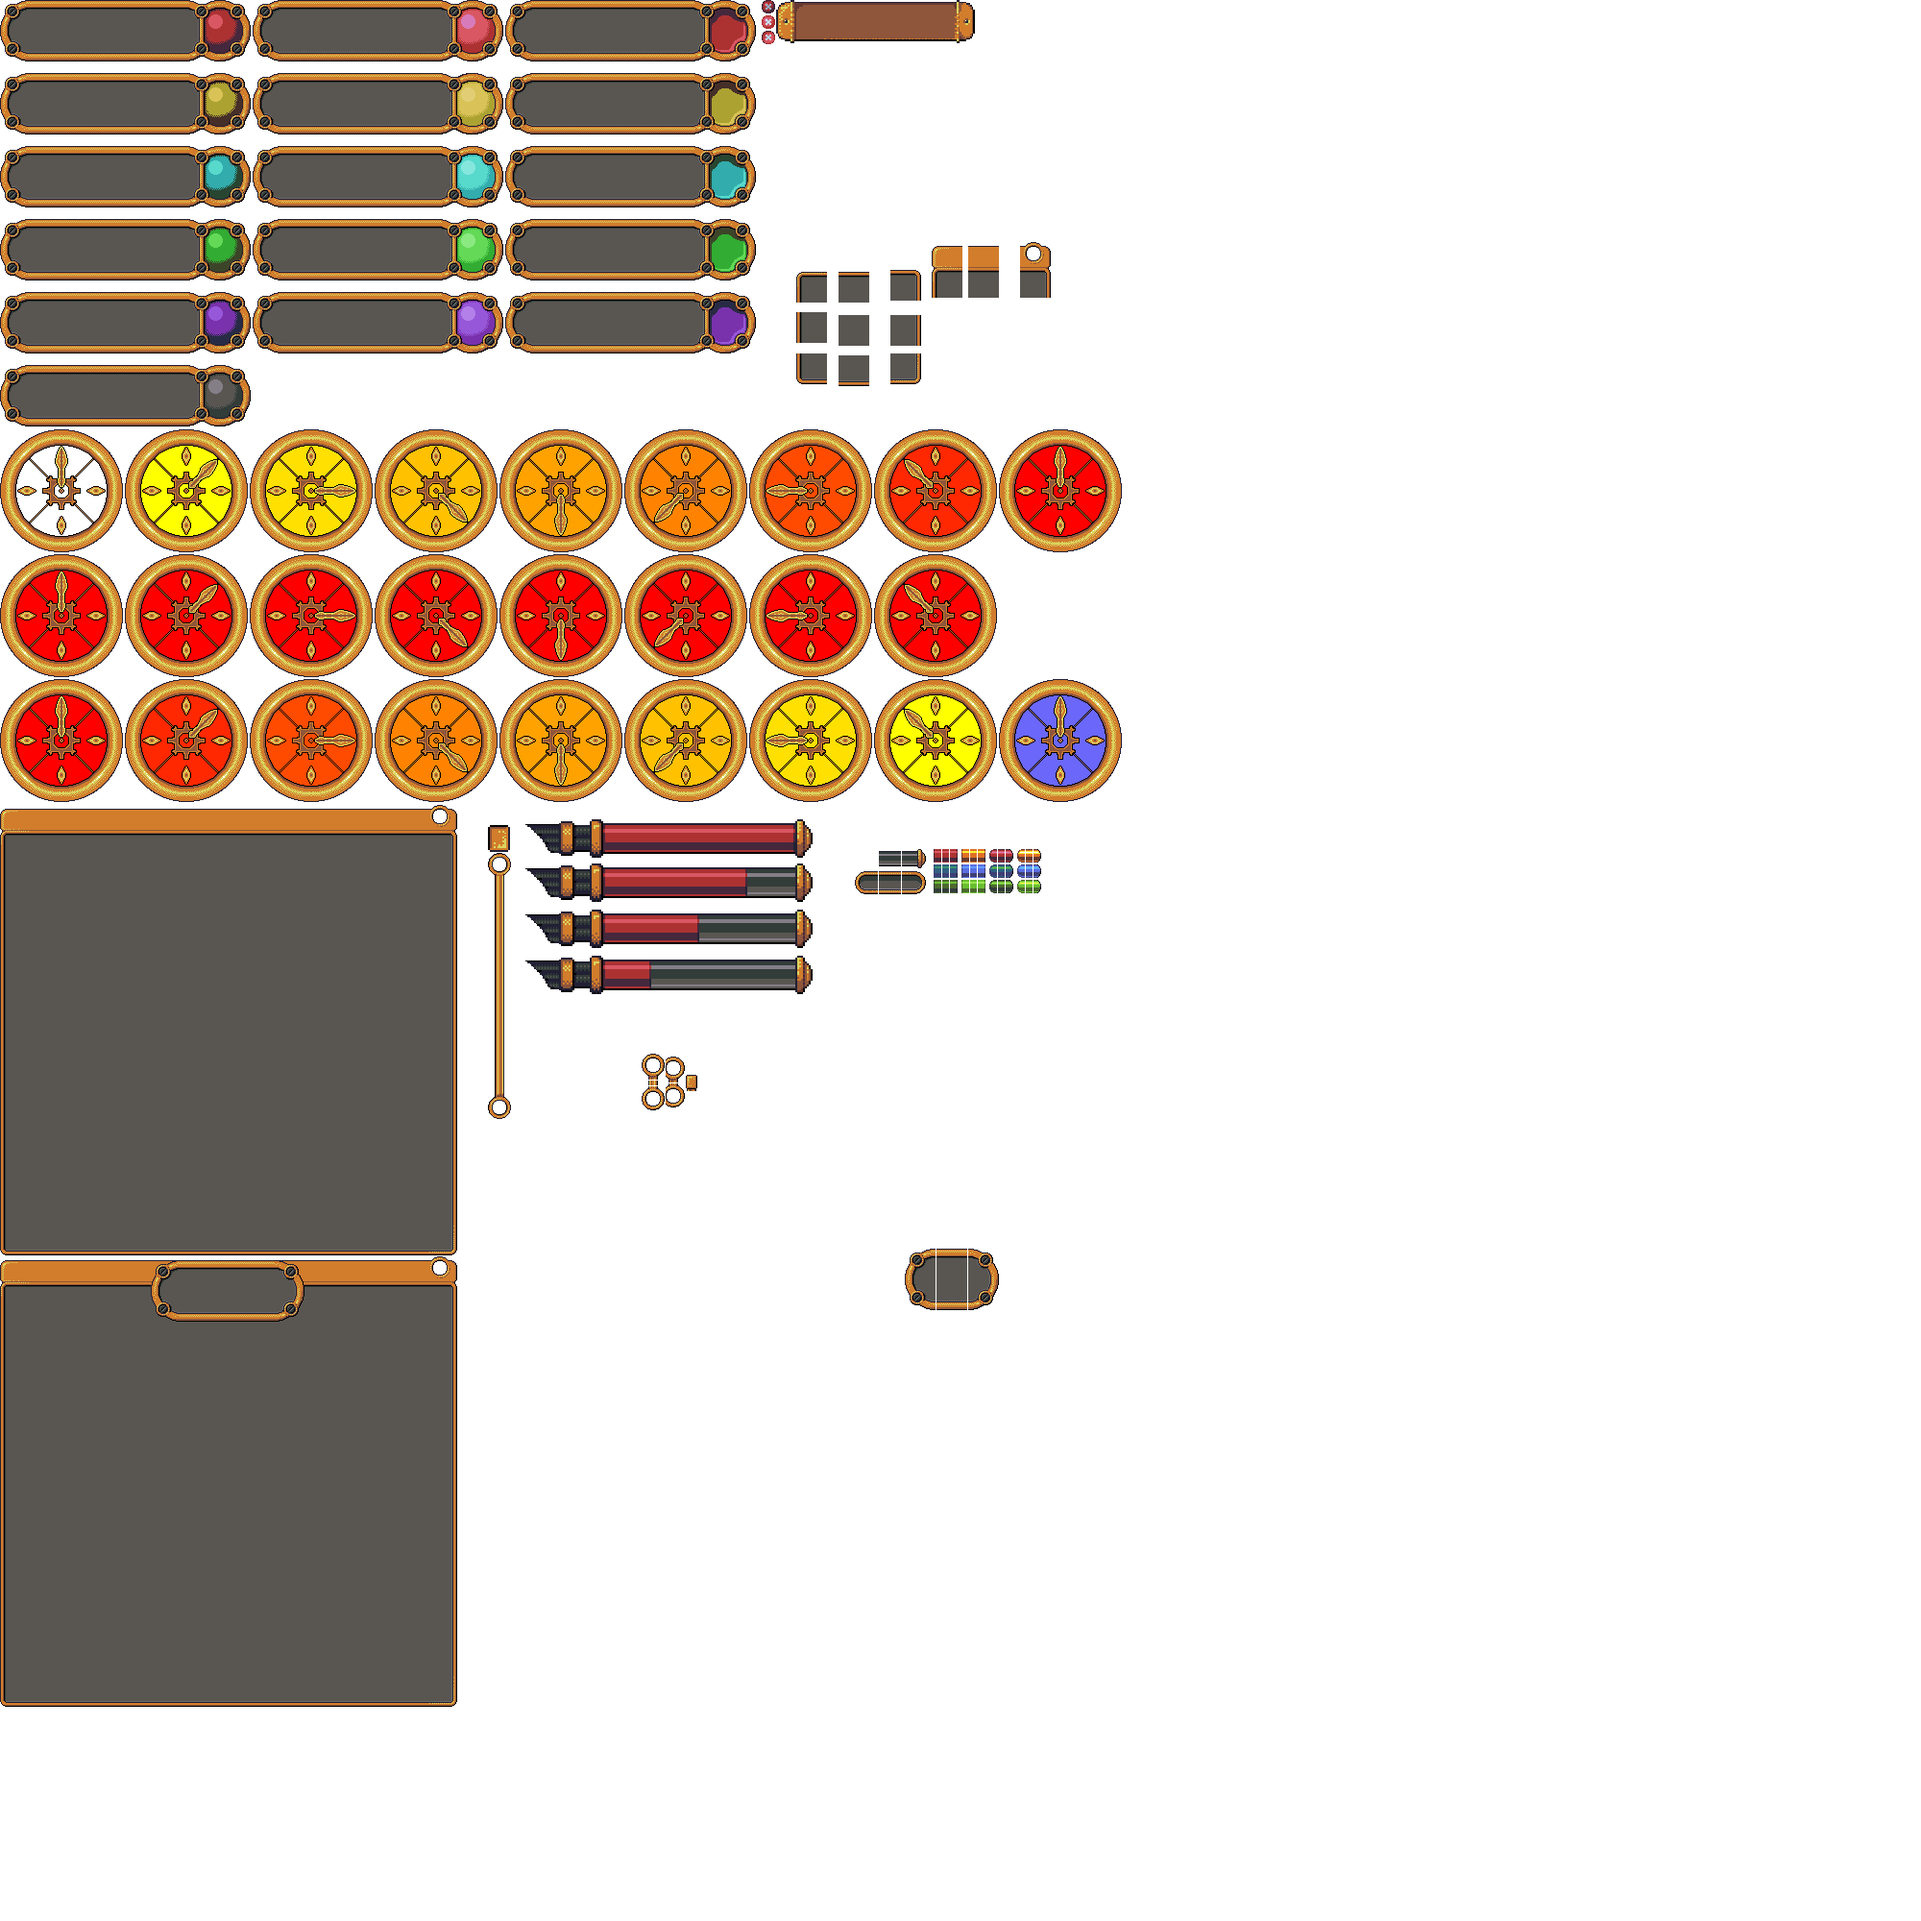
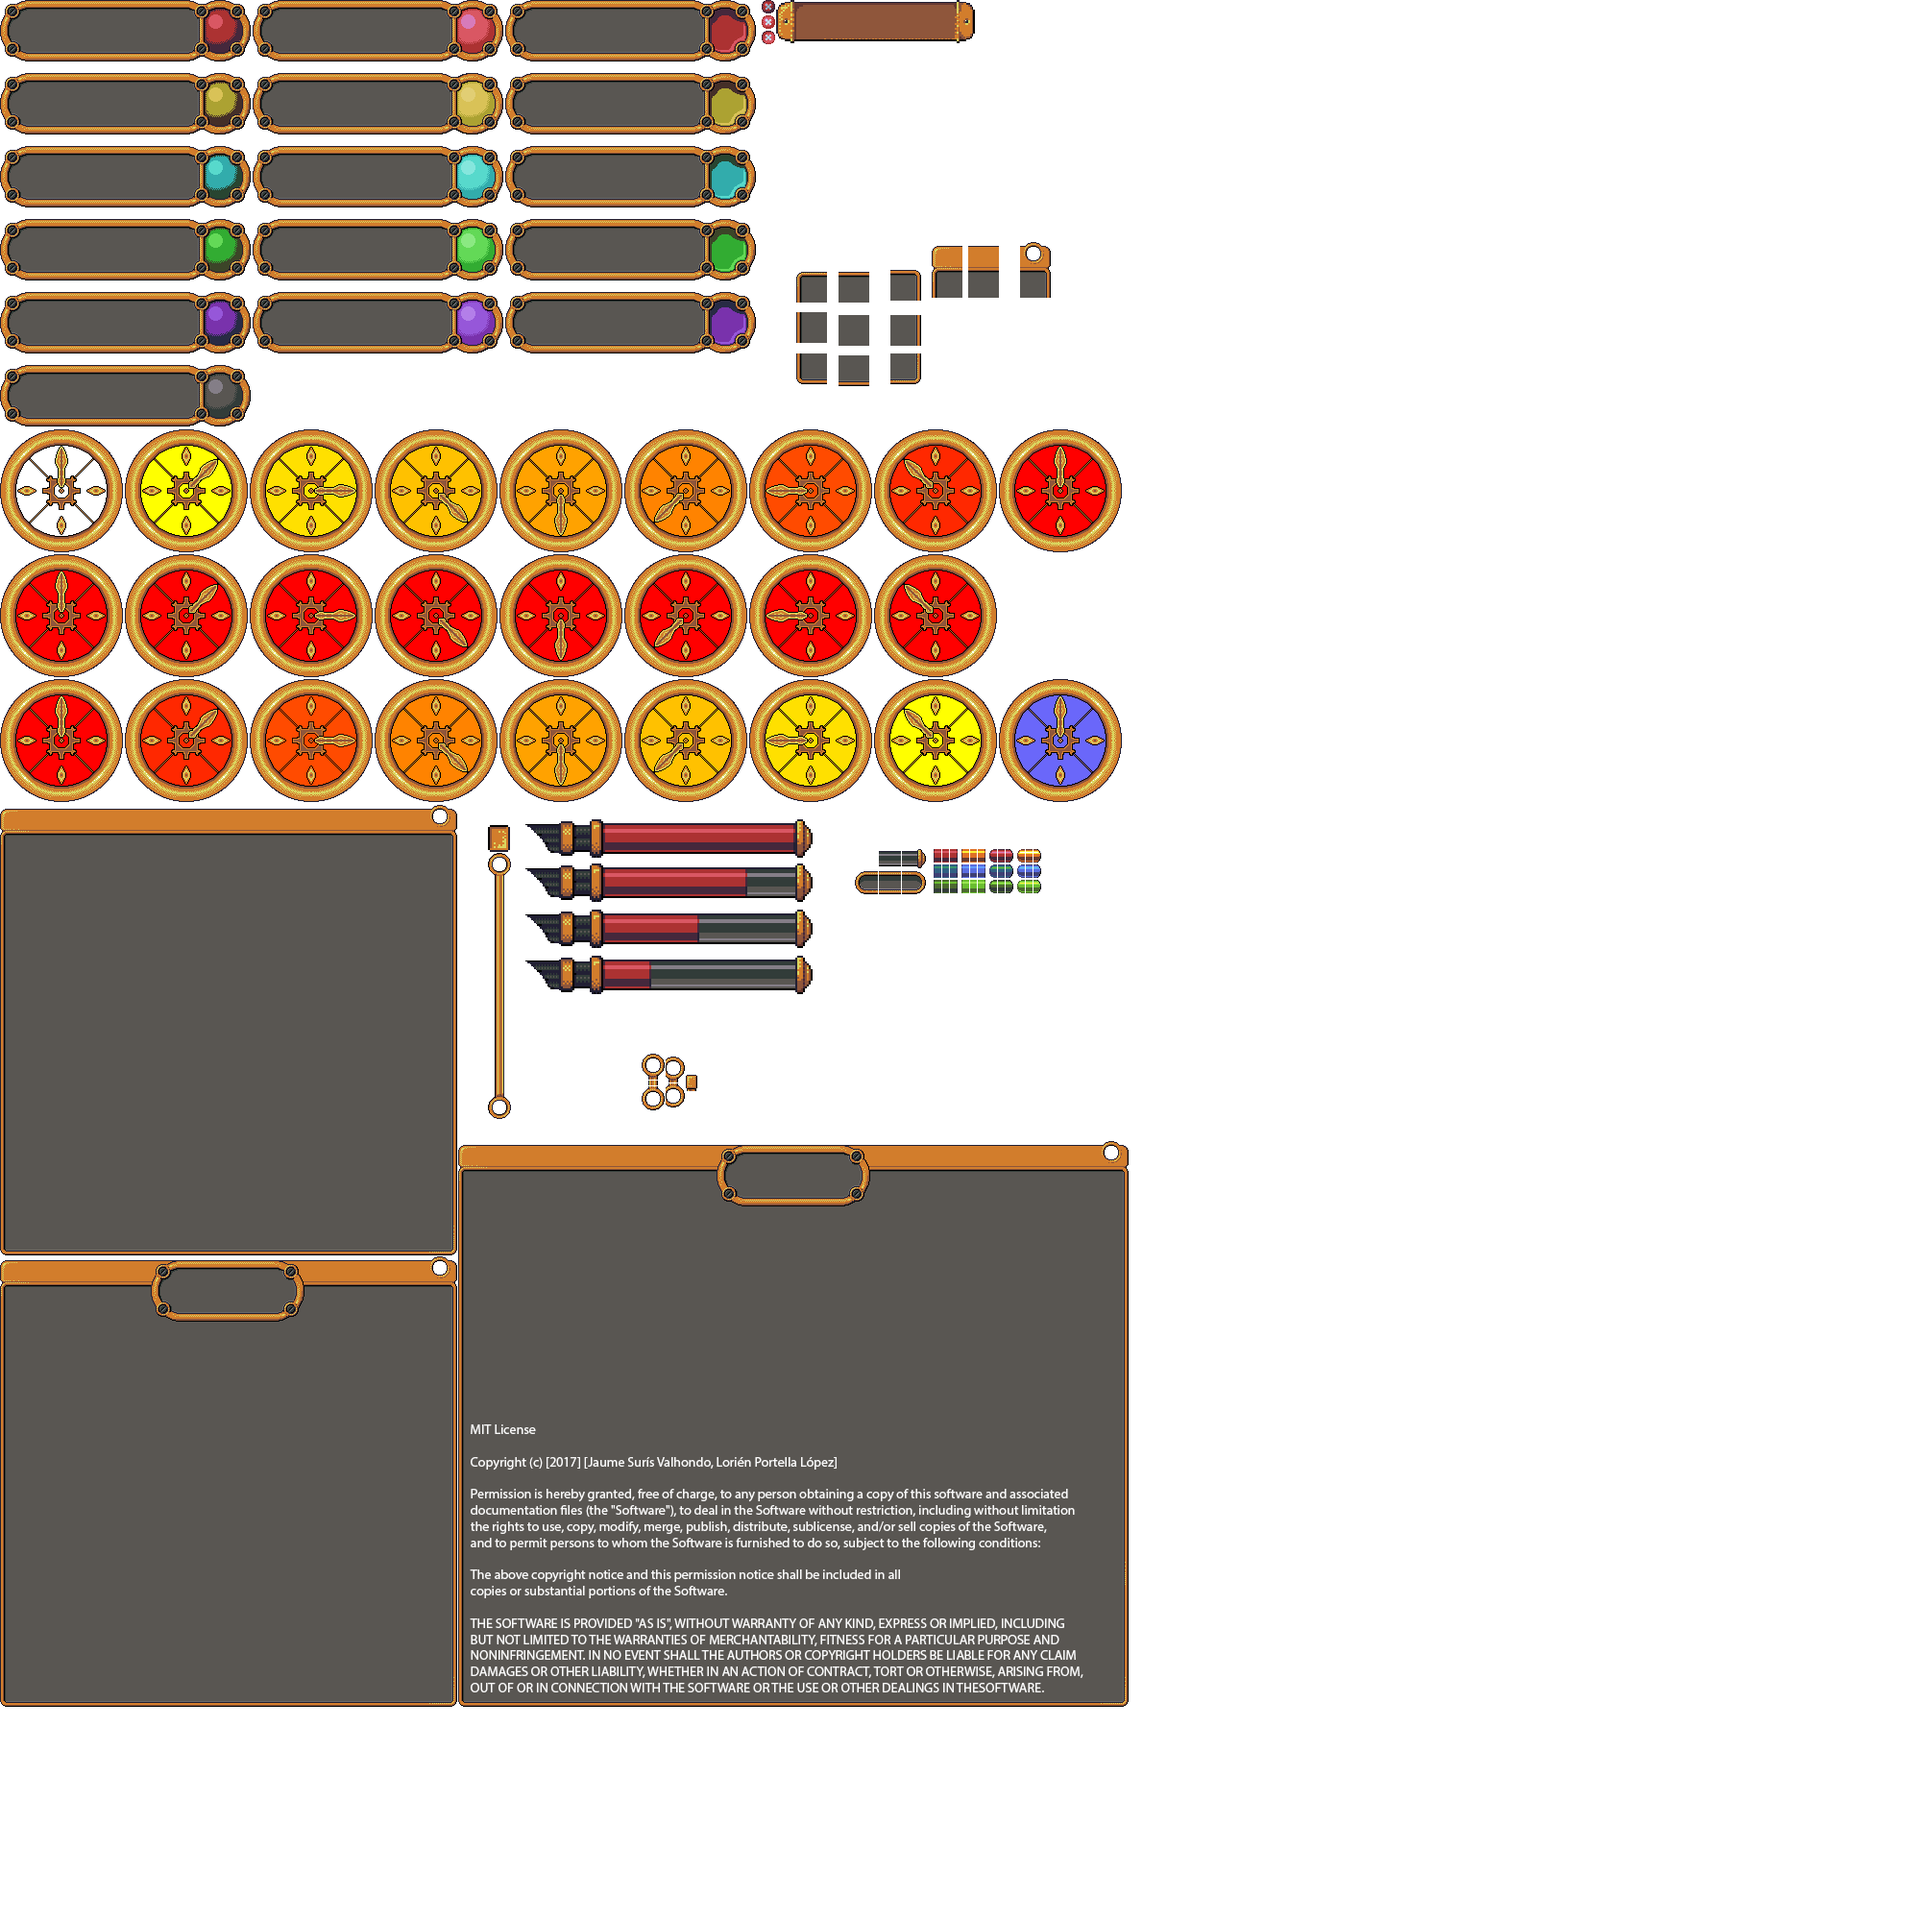
scrollbar is visible, minor fixes

Changed region(s): [[0.217, 0.589, 0.589, 0.899]]

diff --git a/Dev_class5_Orthogonal/Motor2D/j1Gui.cpp b/Dev_class5_Orthogonal/Motor2D/j1Gui.cpp
@@ -200,15 +200,17 @@ bool j1Gui::Save(pugi::xml_node &config) const
 
 bool j1Gui::Load(pugi::xml_node &config)
 {
-	scoreNumber = config.child("score").attribute("value").as_int();
-	App->gui->scoreNumber -= 10;
-	p2SString temp("Score: %i", App->gui->scoreNumber);
-	App->gui->currentScore->ChangeText(&temp);
+	if (App->scene->active)
+	{
+		scoreNumber = config.child("score").attribute("value").as_int();
+		App->gui->scoreNumber -= 10;
+		p2SString temp("Score: %i", App->gui->scoreNumber);
+		App->gui->currentScore->ChangeText(&temp);
 
-	p2SString temo("Coins: %i", App->gui->coins);
-	App->gui->currentCoins->ChangeText(&temo);
-	coins = config.child("coins").attribute("value").as_int();
-
+		p2SString temo("Coins: %i", App->gui->coins);
+		App->gui->currentCoins->ChangeText(&temo);
+		coins = config.child("coins").attribute("value").as_int();
+	}
 	return true;
 }
 
@@ -476,6 +478,8 @@ Window* j1Gui::Load_Window_fromXML(pugi::xml_node node, j1Module* callback)
 		App->scene->sceneMenu = added;
 	else if (node.child("settings").attribute("value").as_bool(false))
 		App->introscene->settings = added;
+	else if (node.child("credits").attribute("value").as_bool(false))
+		App->introscene->credits = added;
 
 	return added;
 }

diff --git a/Dev_class5_Orthogonal/Motor2D/j1IntroScene.cpp b/Dev_class5_Orthogonal/Motor2D/j1IntroScene.cpp
@@ -86,11 +86,16 @@ bool j1IntroScene::OnEvent(UIElement* element, int eventType)
 	bool ret = true;
 	element->HandleAnimation(eventType);
 
-	if (eventType == EventTypes::MOUSE_HOVER_IN)
+	if (eventType == EventTypes::LEFT_MOUSE_PRESSED)
 	{
 		App->audio->PlayFx(1);
 	}
 
+	if (element->type == InteractiveType::CLOSE_WINDOW && eventType == EventTypes::LEFT_MOUSE_PRESSED)
+	{
+		settings->active = false;
+		credits->active = false;
+	}
 	if (eventType == EventTypes::LEFT_MOUSE_PRESSED && element->type == QUIT)
 	{
 		LOG("Quit button");
@@ -110,8 +115,9 @@ bool j1IntroScene::OnEvent(UIElement* element, int eventType)
 	}
 	else if (eventType == EventTypes::LEFT_MOUSE_PRESSED && element->type == OPEN_SETTINGS)
 		settings->active = true;
-	else if (element->type == InteractiveType::CLOSE_WINDOW && eventType == EventTypes::LEFT_MOUSE_PRESSED)
-		settings->active = false;
+	else if (eventType == EventTypes::LEFT_MOUSE_PRESSED && element->type == OPEN_CREDITS)
+		credits->active = true;
+
 
 	if (eventType == EventTypes::PRESSED_ENTER)
 		ret = element->OnEvent();

diff --git a/Dev_class5_Orthogonal/Motor2D/j1Scene.cpp b/Dev_class5_Orthogonal/Motor2D/j1Scene.cpp
@@ -133,11 +133,8 @@ bool j1Scene::Update(float dt)
 	else if (App->input->GetKey(SDL_SCANCODE_F6) == KEY_DOWN)
 		App->SaveGame();
 
-	if (App->input->GetKey(SDL_SCANCODE_F8) == KEY_DOWN)
+	if (App->input->GetKey(SDL_SCANCODE_F9) == KEY_DOWN)
 		App->map->debug = !App->map->debug;
-
-	else if (App->input->GetKey(SDL_SCANCODE_P) == KEY_DOWN)
-		slowing = true;
 
 	else if (App->input->GetKey(SDL_SCANCODE_F10) == KEY_DOWN)
 		App->entitycontroller->godmode = !App->entitycontroller->godmode;
@@ -199,6 +196,11 @@ bool j1Scene::OnEvent(UIElement* element, int eventType)
 	bool ret = true;
 
 	element->HandleAnimation(eventType);
+
+	if (eventType == EventTypes::LEFT_MOUSE_PRESSED)
+	{
+		App->audio->PlayFx(1);
+	}
 
 	if (eventType == EventTypes::PRESSED_ENTER && element->type == InteractiveType::CLOSE_WINDOW)
 	{

diff --git a/Dev_class5_Orthogonal/Motor2D/Scrollbar.cpp b/Dev_class5_Orthogonal/Motor2D/Scrollbar.cpp
@@ -98,6 +98,11 @@ bool Scrollbar::PreUpdate()
 	return true;
 }
 
+bool Scrollbar::CleanUp()
+{
+	return true;
+}
+
 void Scrollbar::ModifySmth()
 {
 	switch (type)
@@ -118,14 +123,16 @@ void Scrollbar::ModifySmth()
 bool Scrollbar::Draw(float dt)
 {
 	ImageDraw(image_section,dt);
+	iPoint tmp = App->render->ScreenToWorld(sliderPos.x , sliderPos.y);
+
 	if (!In_window)
 	{
-		App->render->Blit(image, sliderPos.x, sliderPos.y, &scroller_image);
+		App->render->Blit(image, tmp.x, tmp.y, &scroller_image);
 	}
 
 	if (In_window)
 	{
-		App->render->Blit(image, sliderPos.x+winElement->relativePosition.x, sliderPos.y+winElement->relativePosition.y, &scroller_image);
+		App->render->Blit(image, tmp.x+winElement->relativePosition.x, tmp.y+winElement->relativePosition.y, &scroller_image);
 	}
 	return true;
 }

diff --git a/Dev_class5_Orthogonal/Motor2D/Scrollbar.h b/Dev_class5_Orthogonal/Motor2D/Scrollbar.h
@@ -11,6 +11,7 @@ public:
 	~Scrollbar();
 
 	bool PreUpdate();
+	bool CleanUp();
 	void ModifySmth();
 	bool Draw(float dt);
 	int get_1to100value();

diff --git a/Dev_class5_Orthogonal/Motor2D/j1IntroScene.h b/Dev_class5_Orthogonal/Motor2D/j1IntroScene.h
@@ -36,6 +36,7 @@ public:
 public:
 	SDL_Texture* background = nullptr;
 	Window* settings = nullptr;
+	Window* credits = nullptr;
 };
 
 #endif
